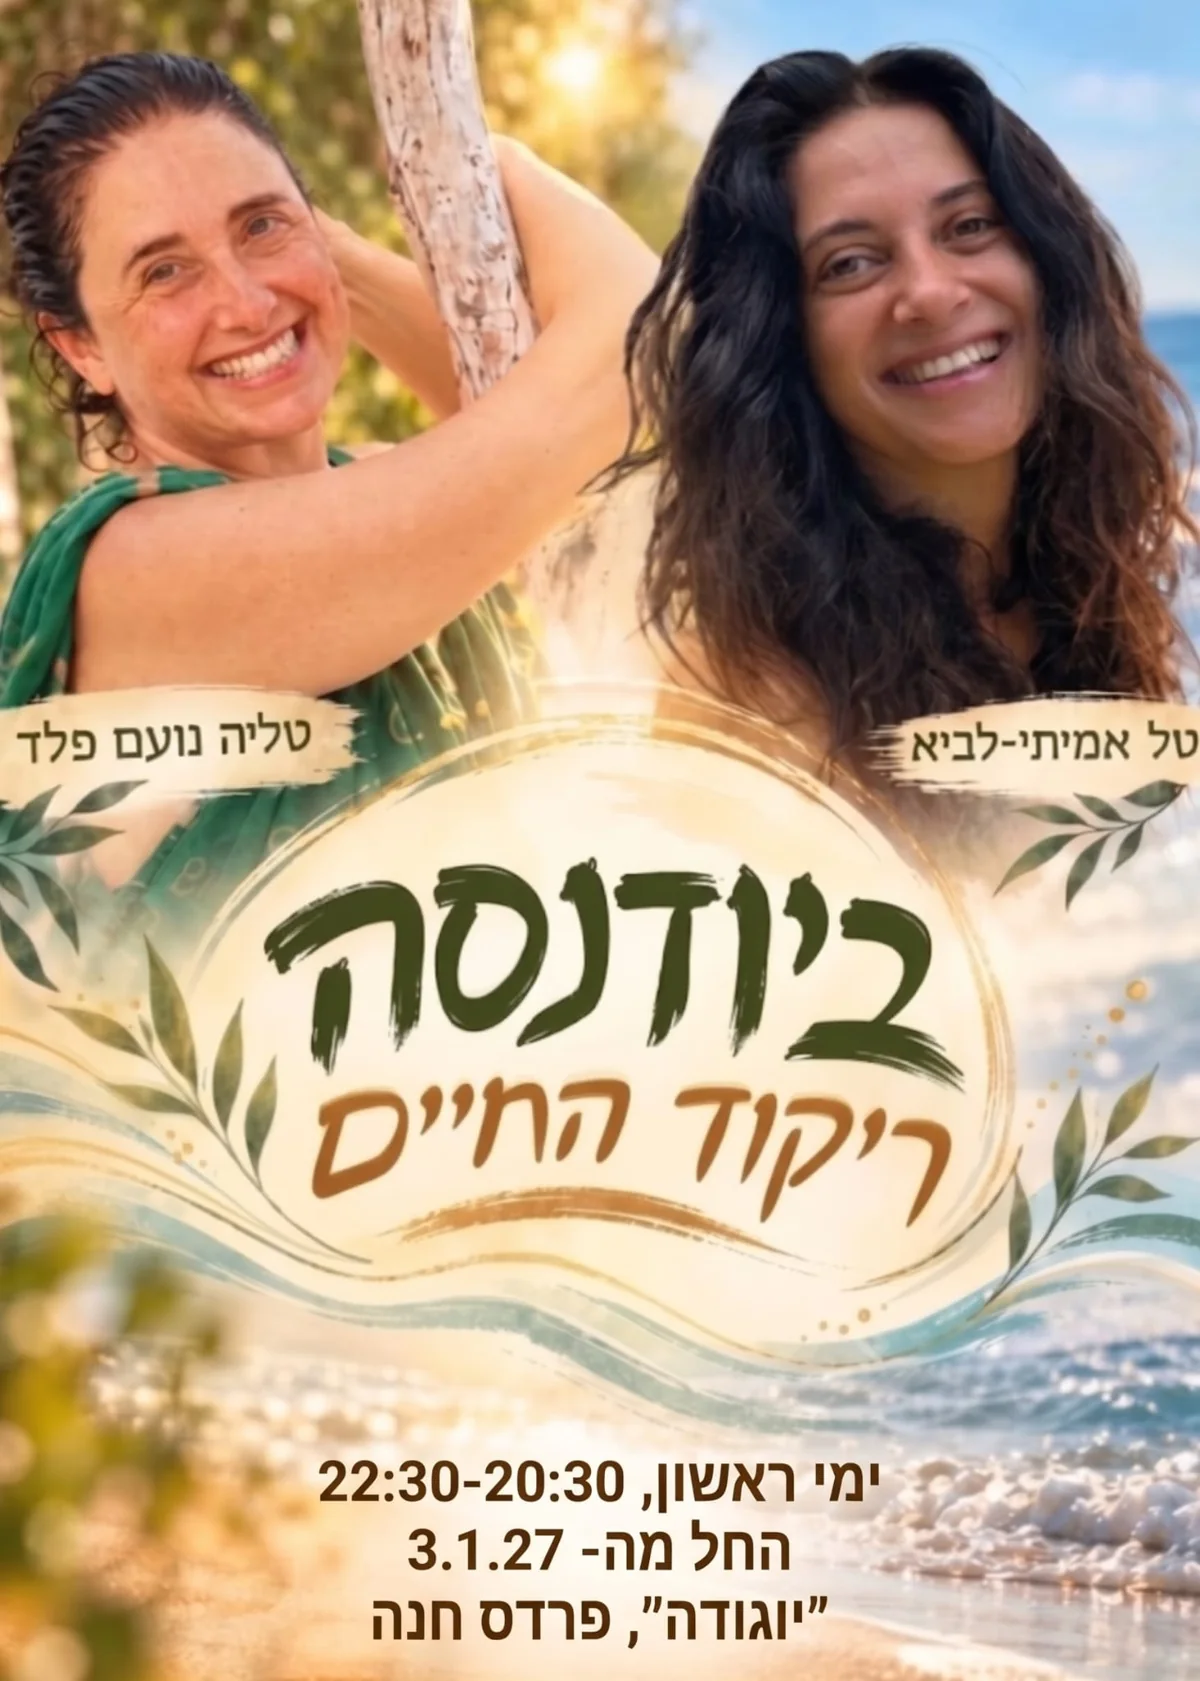
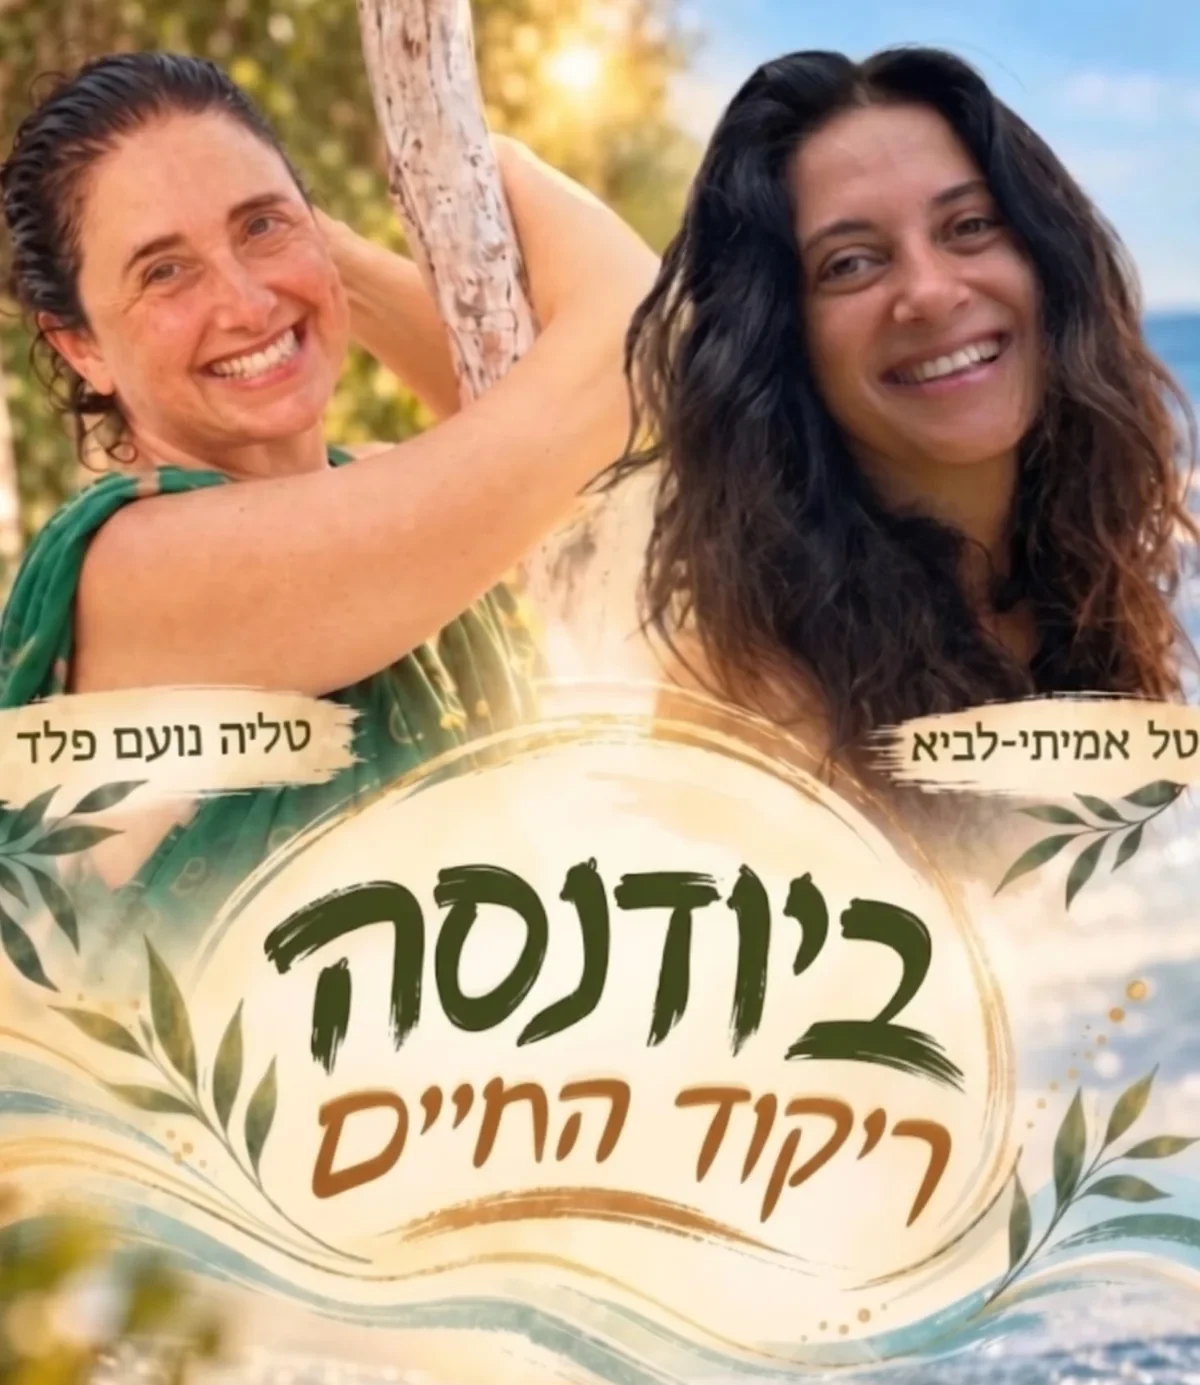
ia: הסרת טקסט הפרטים מתחתית הפוסטר (הפרטים כבר בדף)

diff --git a/businesses/ia/public/index.html b/businesses/ia/public/index.html
@@ -148,7 +148,7 @@
     <div class="wrap">
       <div class="when">
         <div class="when-poster rv">
-          <img src="assets/img/poster.webp" width="1200" height="1681" loading="lazy" alt="הזמנה לביודנסה, ריקוד החיים: טל אמיתי-לביא וטליה נועם פלד, ימי ראשון 20:30 עד 22:30, החל מ-3.1.27 ב&quot;יוגודה&quot;, פרדס חנה" />
+          <img src="assets/img/poster.webp?v=2" width="1200" height="1385" loading="lazy" alt="ביודנסה, ריקוד החיים: טליה נועם פלד וטל אמיתי-לביא מחייכות, על רקע חוף הים" />
         </div>
         <div class="when-text rv" style="--i:.15s">
           <p class="hand">מצטרפים יחד מההתחלה</p>
